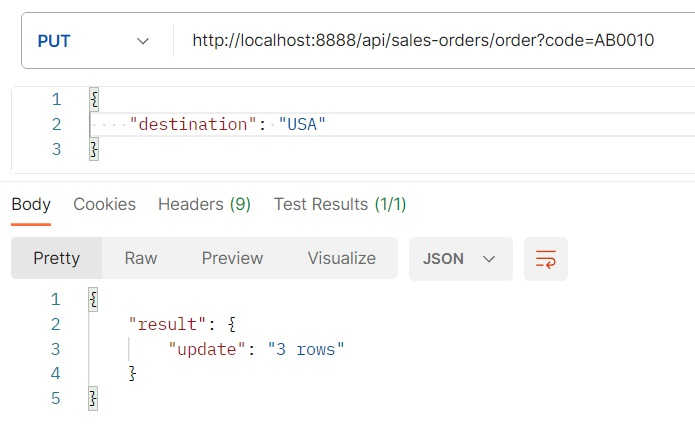
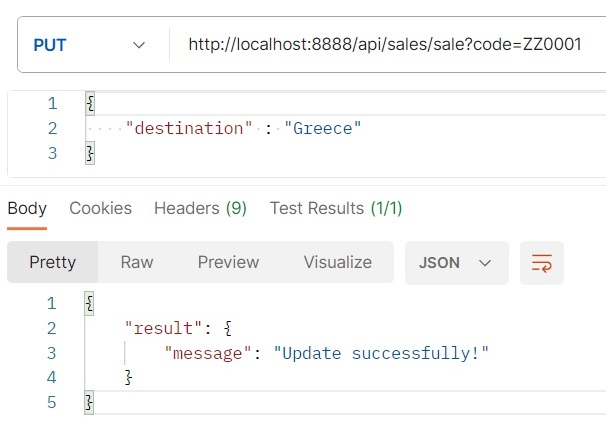
Update readme

diff --git a/config/api_config/routes.php b/config/api_config/routes.php
@@ -17,10 +17,6 @@ return [
             ],
             "{id}" => [
                 "file" => "./sale/crud/read-id.php",
-            ],
-            "sale-product" => [
-                "query" => ["code", "prod"],
-                "file" => "./sale/query/read-sales-prod.php",
             ]
         ],
 

diff --git a/README.md b/README.md
@@ -40,7 +40,7 @@
 
 * Contiene il file `index.php`, il quale ricava i dati dall’URI e reindirizza verso l’operazione desiderata utilizzando la funzione contenuta in `file-renderer.php` che a sua volta utilizza lo schema in `routes.php`
 
-* Contiene `./product` e `./sales-order` che sono le due cartelle che contengono i file che si occupano di effettuare le azioni.
+* Contiene `./product`, `./sales` e `./sales-order` che sono le cartelle che contengono i file che si occupano di effettuare le azioni.
 
 ## La cartella `./config` contiene:
 
@@ -57,7 +57,7 @@
 
 ## La cartella `./model` contiene le classi che sono astrazione dei modelli:
 
-#### `Product` e `Sale`  ->  Ognuno con i suoi metodi **CRUD** e funzioni per le query.
+#### `Product`, `Sales` e `SalesOrder`  ->  Ognuno con i suoi metodi **CRUD** e funzioni per le query.
 
 </br>
 
@@ -65,20 +65,25 @@
 
 ## Richieste “GET” lettura dati
 
-### Ricavare tutti i prodotti o tutti gli ordini:
+### Lettura dei prodotti:
 
     GET -> {domain}/api/products/all
-    GET -> {domain}/api/sales-orders/all
-
-</br>
-<img src = "./readme-img/prod_insert.jpg" style = "width:70%" >
-
-### Ricavare un singolo prodotto od ordine:
-
     GET -> {domain}/api/products/{id}
+
+### Lettura info ordini:
+
+    GET -> {domain}/api/sales/all
+    GET -> {domain}/api/sales/{id}
+
+
+### Lettura ordine completo:
+
+    GET -> {domain}/api/sales-orders/all
     GET -> {domain}/api/sales-orders/{id}
 
- </br>
+</br>
+
+#### Esempio lettura ordine:
  
  <img src = "./readme-img/order_read_id.jpg" style = "width:70%" >
 
@@ -138,22 +143,44 @@
 ### Corpo della richiesta: 
 
     {
-        "sales_code": "AA0000",
-        "sales_date": "2023-11-13 09:36:20",
-        "destination": "Italy",
-        "product_id": "5520, 0100"
-    }	
+        "sales_code": "ZZ0000",
+        "sales_date": "2023-11-22 09:36:20",
+        "destination": "France",
+        "products": [
+                {
+                    "product_id": "0234",
+                    "n_products": 5
+                },
+                {
+                    "product_id": "6476",
+                    "n_products": 2
+                }
+        ]
+    }
+
+
+### Inserimento di un nuovo prodotto in un ordine già esistente:
+	
+    	POST -> {domain}/api/sales-orders/sale?order={code}
+
+### Corpo della richiesta: 
+
+    {     
+        "product_id": "5520",        
+        "n_prod" : 4
+    }
 
 </br>
 
 ## Richieste “PUT” modifica dei dati:
+
+### **N.B** Per tutte le richieste `PUT` è possibile immettere uno o più campi da modificare. Non è necessario rinserire dati che non si vuole modificare.
 
 ### Modifica di un prodotto:
 
 		PUT -> {domain}/api/products/product?code={value}
 
 #### esegue l'update del prodotto con il codice = {value}
-#### Nel corpo della richiesta possono essere specificati tutti i campi o solo quelli interessati:
 
 ### Corpo della richiesta: 
 
@@ -170,21 +197,46 @@
 		PUT -> {domain}/api/sales-orders/order?code={value}
 
 #### esegue l'update dell’ordine con il codice = {value}
-#### Nel corpo della richiesta possono essere specificati tutti i campi o solo quelli interessati:
 
-### Corpo della richiesta: 
+#### Corpo della richiesta: 
 
     {
-        "sales_code": "BB0000",
-        "sales_date": "2023-11-14",
-        "destination": "USA",
-        "product_id": "5520, 0100, 0234"
+        "sales_code": "ZZ0001",
+        "sales_date": "2023-11-25 16:00:00",
+        "destination": "Canada",
+        "products": [
+                {
+                    "product_id": "0100",
+                    "n_products": 2
+                }
+        ]
+    }
+
+#### Se si vuole lasciare tutto invariato e modificare solo i prodotti nell'ordine è possibile fare in questo modo:
+
+<img src = "./readme-img/order_update_products.jpg" style = "width:70%" >
+
+</br>
+
+
+### Modifica info ordine:
+
+#### Si può effettuare la modifica delle informazioni di vendita senza andare a specificare i prodotti con:
+
+		PUT -> {domain}/api/sales/sale?code={value} 
+
+#### specificando uno o più campi nel corpo della richiesta
+
+    {
+        "sales_code": "ZZ0001",
+        "sales_date" : "2023-11-30 16:30:00",
+        "destination" : "Italy"
     }
 
 #### O semplicemente modificare solo il paese di destinazione
 
     {
-        "destination": "USA",
+        "destination": "Greece",
     }
 
 <img src = "./readme-img/order_update.jpg" style = "width:70%" >
@@ -205,9 +257,17 @@
 
 ### Cancellazione di un ordine di vendita:
 
-		DELETE -> {domain}/api/sales-orders/order?code={value}
+		DELETE -> {domain}/api/sales/sale?code={value} 
 
 #### esegue il delete dell’ordine con il codice = {value}
+
+</br>
+
+### Cancellazione di un singolo prodotto nell'ordine di vendita: 
+
+		DELETE -> {domain}/api/sales-orders/sale?product={p_code}&order={o_code}  
+
+#### esegue il delete del prodotto con il codice `{p_code}` e codice ordine `{o_code}`
 
 </br>
 
@@ -216,6 +276,12 @@
 ### Ordine già esistente:
 
 <img src = "./readme-img/order_error_insert.jpg" style = "width:70%" >
+
+</br>
+
+### Non è possibile eliminare tutti i prodotti nell'ordine:
+
+<img src = "./readme-img/delete_product_order.jpg" style = "width:70%" >
 
 </br>
 
